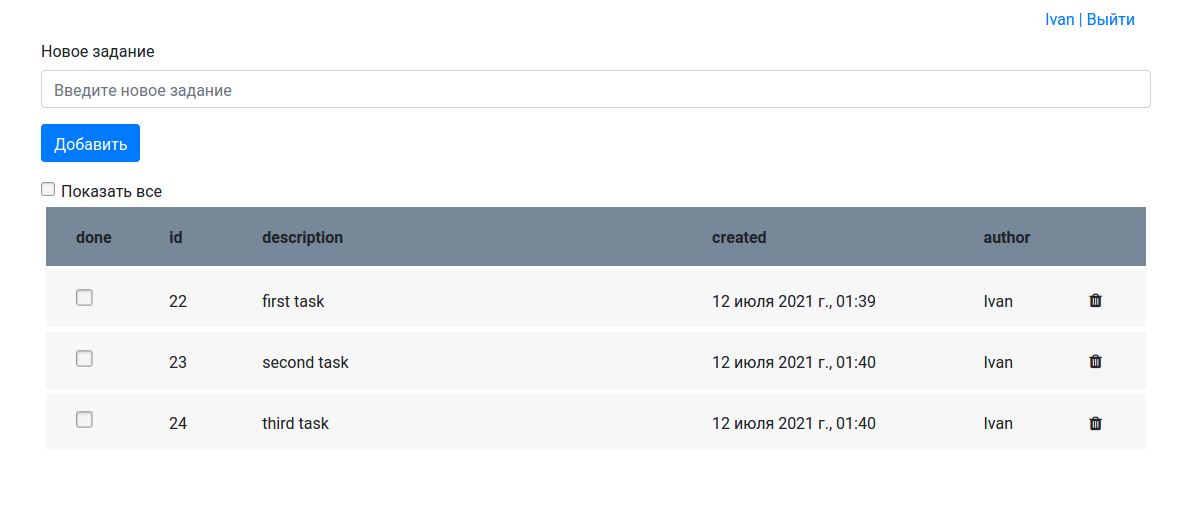
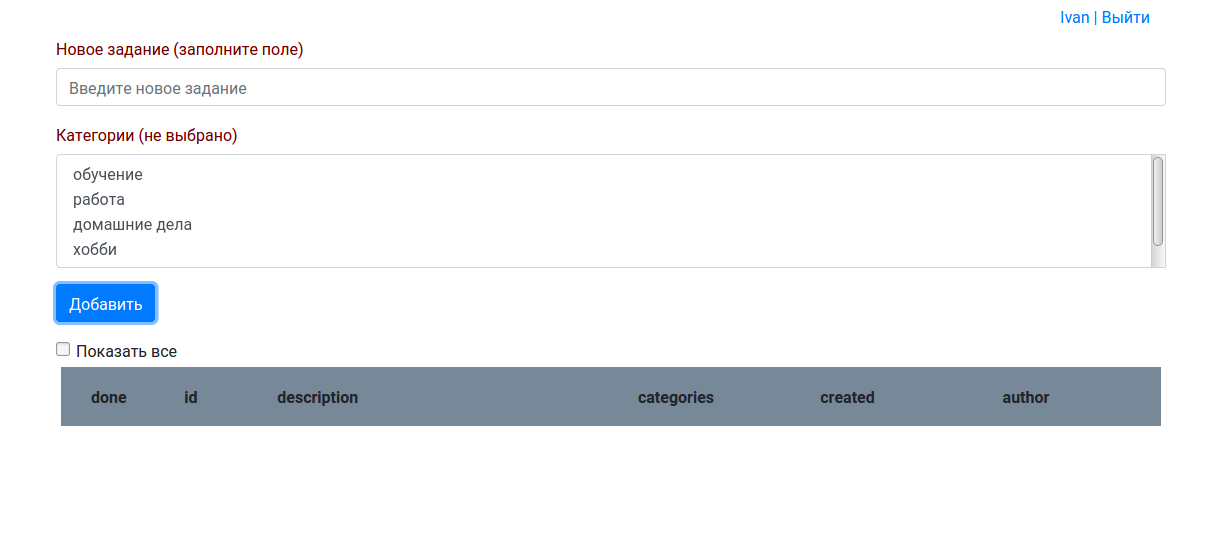
4. Категории в TODO List [#331991]

diff --git a/src/main/webapp/js/main.js b/src/main/webapp/js/main.js
@@ -1,19 +1,40 @@
 let add = function(){
-    let taskName = $('#description').val();
-    addTask(0, taskName, "", false);
+    if (validate()) {
+        let taskName = $('#description').val();
+        let categories = $('#categories').val();
+        addTask(0, taskName, "", false, categories);
+    }
 };
 
-let makeJson = function (id, taskName, created, isDone) {
+let validate = function () {
+    let result = true;
+    if ($("#description").val() === "") {
+        $("#descriptionLabel").text("Новое задание (заполните поле)").css("color", "#740000");
+        result = false;
+    } else {
+        $("#descriptionLabel").text("Новое задание").css("color", "#000000");
+    }
+    if ($("#categories").val().length === 0) {
+        $("#categoriesLabel").text("Категории (не выбрано)").css("color", "#740000");
+        result = false;
+    } else {
+        $("#categoriesLabel").text("Категории").css("color", "#000000");
+    }
+    return result;
+}
+
+let makeJson = function (id, taskName, created, isDone, categories) {
     let item = {};
     item["id"] = Number(id);
     item["description"] = taskName;
     item["created"] = created;
     item["done"] = isDone;
+    item["categories"] = categories;
     return JSON.stringify(item);
 };
 
-let addTask = function (id, taskName, created, isDone) {
-    let json = makeJson(id, taskName, created, isDone);
+let addTask = function (id, taskName, created, isDone, categories) {
+    let json = makeJson(id, taskName, created, isDone, categories);
     $.ajax({
         type: 'POST',
         url: './add.do',
@@ -21,23 +42,34 @@ let addTask = function (id, taskName, created, isDone) {
         dataType: 'json'
     }).done(function (data) {
         let item = data.item;
-        addToFront(item.id, item.description, item.created, JSON.parse(item.done), item.user.name);
+        addToFront(item.id, item.description, item.created, JSON.parse(item.done), item.user.name, item.categories);
     }).fail(function (err) {
 
     });
 }
 
-let addToFront = function (id, taskName, created, done, username) {
+let addToFront = function (id, taskName, created, done, username, categories) {
     let doneSpan = $("<span></span>").addClass("col-1").append("<input type='checkbox'>");
     let idSpan = $("<span></span>").addClass("col-1").text(id);
-    let descSpan = $("<span></span>").addClass("col-5").text(taskName);
-    let createdSpan = $("<span></span>").addClass("col-3").text(formatDate(created));
+    let descSpan = $("<span></span>").addClass("col-4").text(taskName);
+    let namesOfCategories = "";
+    for (let i = 0; i < categories.length; i++) {
+        namesOfCategories += categories[i].name;
+        if (i < categories.length - 1) {
+            namesOfCategories += ", ";
+        }
+    }
+    let categorySpan = $("<span></span>").addClass("col-2").text(namesOfCategories);
+    let createdSpan = $("<span></span>").addClass("col-2").text(formatDate(created));
     let authorSpan = $("<span></span>").addClass("col-1").text(username);
     let deleteSpan = $("<span></span>").append("<i class='fa fa-trash col-1'></i>");
     let item = $("<div></div>")
         .addClass("todo-item")
         .prop('id', id)
-        .append(doneSpan, " ", idSpan, " ", descSpan, " ", createdSpan, " ", authorSpan, " ", deleteSpan);
+        .append(
+            doneSpan, " ", idSpan, " ", descSpan, " ", categorySpan, " ",
+            createdSpan, " ", authorSpan, " ", deleteSpan
+        );
     $("#list").append(item);
     if (done) {
         $("#" + id + " input:checkbox").prop('checked', true);
@@ -71,7 +103,7 @@ $(document).ready(function() {
 let updateItem = function(checkbox) {
     let done = $(checkbox).is(":checked");
     let id = $(checkbox).parent().parent().prop("id");
-    let json = makeJson(id, "", "", done);
+    let json = makeJson(id, "", "", done, "");
     $.ajax({
         type: 'POST',
         url: './update.do',
@@ -108,13 +140,19 @@ let getAllTasks = function () {
     }).done(function (data) {
         let items = data.items;
         let user = data.user;
+        let categories = data.categories;
         for (let i = 0; i < items.length; i++) {
             let id = items[i]["id"];
             let description = items[i]["description"];
             let created = items[i]["created"]
             let done = JSON.parse(items[i]["done"]);
             let username = items[i]["user"]["name"];
-            addToFront(id, description, created, done, username);
+            let categories = items[i]["categories"];
+            addToFront(id, description, created, done, username, categories);
+        }
+        for (let i = 0; i < categories.length; i++) {
+            let option = $('<option></option>').text(categories[i].name).prop("value", categories[i].id);
+            $("#categories").append(option);
         }
         $("#userinfo a").text(user + " | Выйти");
     }).fail(function (err) {
@@ -134,7 +172,7 @@ $(document).ready(function () {
 });
 
 let deleteItem = function (id) {
-    let json = makeJson(id, "", "", true);
+    let json = makeJson(id, "", "", true, "");
     $.ajax({
         type: 'POST',
         url: './delete.do',

diff --git a/src/main/webapp/todo.html b/src/main/webapp/todo.html
@@ -27,8 +27,13 @@
             </div>
             <form>
                 <div class="form-group">
-                    <label for="description">Новое задание</label>
+                    <label for="description" id="descriptionLabel">Новое задание</label>
                     <input type="text" class="form-control" id="description" placeholder="Введите новое задание">
+                </div>
+                <div class="form-group">
+                    <label for="categories" id="categoriesLabel">Категории</label>
+                    <select class="form-control" name="categories" id="categories" multiple>
+                    </select>
                 </div>
                 <button type="button" class="btn btn-primary" id="addButton" onclick="add();">Добавить</button>
             </form>
@@ -40,8 +45,9 @@
                 <div class="todo-header">
                     <span class="col-1">done</span>
                     <span class="col-1">id</span>
-                    <span class="col-5">description</span>
-                    <span class="col-3">created</span>
+                    <span class="col-4">description</span>
+                    <span class="col-2">categories</span>
+                    <span class="col-2">created</span>
                     <span class="col-1">author</span>
                     <span class="col-1"></span>
                 </div>

diff --git a/src/main/java/ru/job4j/todo/store/StoreHbm.java b/src/main/java/ru/job4j/todo/store/StoreHbm.java
@@ -7,6 +7,7 @@ import org.hibernate.boot.MetadataSources;
 import org.hibernate.boot.registry.StandardServiceRegistry;
 import org.hibernate.boot.registry.StandardServiceRegistryBuilder;
 import org.hibernate.query.Query;
+import ru.job4j.todo.model.Category;
 import ru.job4j.todo.model.Item;
 import ru.job4j.todo.model.User;
 
@@ -32,9 +33,13 @@ public class StoreHbm implements Store {
     }
 
     @Override
-    public Item add(Item item) {
+    public Item add(Item item, List<Long> categoriesIds) {
         return this.txFunction(
                 session -> {
+                    for (long id : categoriesIds) {
+                        Category category = session.find(Category.class, id);
+                        item.addCategory(category);
+                    }
                     session.save(item);
                     return item;
                 }
@@ -66,7 +71,9 @@ public class StoreHbm implements Store {
     public List<Item> getAllItems(long id) {
         return this.txFunction(
                 session -> {
-                    Query itemsQuery =  session.createQuery("from Item i where i.user.id = :userId");
+                    Query itemsQuery =  session.createQuery(
+                            "select distinct i from Item i join fetch i.categories where i.user.id = :userId"
+                    );
                     itemsQuery.setParameter("userId", id);
                     return itemsQuery.list();
                 }
@@ -83,12 +90,19 @@ public class StoreHbm implements Store {
     @Override
     public User getUserByName(String userName) {
         return this.txFunction(
-            session -> {
-                Query userQuery = session.createQuery("from User where name = :username");
-                userQuery.setParameter("username" , userName);
-                User user = (User) userQuery.uniqueResult();
-                return user;
-            }
+                session -> {
+                    Query userQuery = session.createQuery("from User where name = :username");
+                    userQuery.setParameter("username" , userName);
+                    User user = (User) userQuery.uniqueResult();
+                    return user;
+                }
+        );
+    }
+
+    @Override
+    public List<Category> getAllCategories() {
+        return this.txFunction(
+                session -> session.createQuery("from Category", Category.class).list()
         );
     }
 

diff --git a/src/main/java/ru/job4j/todo/model/Item.java b/src/main/java/ru/job4j/todo/model/Item.java
@@ -2,6 +2,8 @@ package ru.job4j.todo.model;
 
 import javax.persistence.*;
 import java.time.LocalDateTime;
+import java.util.ArrayList;
+import java.util.List;
 
 @Entity
 @Table(name = "items")
@@ -12,6 +14,8 @@ public class Item {
     private String description;
     private LocalDateTime created;
     private boolean done;
+    @ManyToMany(cascade = {CascadeType.PERSIST, CascadeType.MERGE})
+    private List<Category> categories = new ArrayList<>();
 
     @ManyToOne
     @JoinColumn(name = "user_id")
@@ -25,6 +29,10 @@ public class Item {
         this.description = description;
         this.done = done;
         this.created = LocalDateTime.now();
+    }
+
+    public void addCategory(Category category) {
+        this.categories.add(category);
     }
 
     public long getId() {
@@ -67,6 +75,14 @@ public class Item {
         this.done = done;
     }
 
+    public List<Category> getCategories() {
+        return categories;
+    }
+
+    public void setCategories(List<Category> categories) {
+        this.categories = categories;
+    }
+
     @Override
     public String toString() {
         return "Item{" +
@@ -74,6 +90,8 @@ public class Item {
                 ", description='" + description + '\'' +
                 ", created=" + created +
                 ", done=" + done +
+                ", categories=" + categories +
+                ", user=" + user +
                 '}';
     }
 }

diff --git a/src/main/java/ru/job4j/todo/servlets/AddTaskServlet.java b/src/main/java/ru/job4j/todo/servlets/AddTaskServlet.java
@@ -1,5 +1,6 @@
 package ru.job4j.todo.servlets;
 
+import org.json.JSONArray;
 import org.json.JSONObject;
 import org.slf4j.Logger;
 import org.slf4j.LoggerFactory;
@@ -11,6 +12,8 @@ import javax.servlet.http.HttpServlet;
 import javax.servlet.http.HttpServletRequest;
 import javax.servlet.http.HttpServletResponse;
 import java.io.PrintWriter;
+import java.util.ArrayList;
+import java.util.List;
 
 public class AddTaskServlet extends HttpServlet {
     private final Logger logger = LoggerFactory.getLogger(AddTaskServlet.class);
@@ -24,10 +27,15 @@ public class AddTaskServlet extends HttpServlet {
                 requestObject.getString("description"),
                 requestObject.getBoolean("done")
         );
+        JSONArray categories = requestObject.getJSONArray("categories");
+        List<Long> categoriesIds = new ArrayList<>();
+        for (int i = 0; i < categories.length(); i++) {
+            categoriesIds.add(categories.getLong(i));
+        }
         User user = (User) req.getSession().getAttribute("user");
         item.setUser(user);
         try {
-            Item itemFromDB = StoreHbm.instOf().add(item);
+            Item itemFromDB = StoreHbm.instOf().add(item, categoriesIds);
 
             resp.setContentType("application/json");
             resp.setCharacterEncoding("UTF-8");

diff --git a/src/main/java/ru/job4j/todo/servlets/GetAllItemsServlet.java b/src/main/java/ru/job4j/todo/servlets/GetAllItemsServlet.java
@@ -4,6 +4,7 @@ import org.json.JSONArray;
 import org.json.JSONObject;
 import org.slf4j.Logger;
 import org.slf4j.LoggerFactory;
+import ru.job4j.todo.model.Category;
 import ru.job4j.todo.model.Item;
 import ru.job4j.todo.model.User;
 import ru.job4j.todo.store.StoreHbm;
@@ -24,12 +25,14 @@ public class GetAllItemsServlet extends HttpServlet {
             User user = (User) req.getSession().getAttribute("user");
 
             List<Item> allItems = StoreHbm.instOf().getAllItems(user.getId());
+            List<Category> allCategories = StoreHbm.instOf().getAllCategories();
 
             resp.setContentType("application/json");
             resp.setCharacterEncoding("UTF-8");
             JSONObject jsonResponse = new JSONObject();
             jsonResponse.put("user", user.getName());
             jsonResponse.put("items", new JSONArray(allItems));
+            jsonResponse.put("categories", new JSONArray(allCategories));
             try (PrintWriter writer = new PrintWriter(resp.getOutputStream())) {
                 String out = jsonResponse.toString();
                 writer.println(out);

diff --git a/src/main/java/ru/job4j/todo/model/Category.java b/src/main/java/ru/job4j/todo/model/Category.java
@@ -1,0 +1,37 @@
+package ru.job4j.todo.model;
+
+import javax.persistence.*;
+
+@Entity
+@Table(name = "categories")
+public class Category {
+    @Id
+    @GeneratedValue(strategy = GenerationType.IDENTITY)
+    private long id;
+
+    private String name;
+
+    public Category() {
+
+    }
+
+    public Category(String name) {
+        this.name = name;
+    }
+
+    public long getId() {
+        return id;
+    }
+
+    public void setId(long id) {
+        this.id = id;
+    }
+
+    public String getName() {
+        return name;
+    }
+
+    public void setName(String name) {
+        this.name = name;
+    }
+}

diff --git a/src/main/java/ru/job4j/todo/store/Store.java b/src/main/java/ru/job4j/todo/store/Store.java
@@ -1,15 +1,17 @@
 package ru.job4j.todo.store;
 
+import ru.job4j.todo.model.Category;
 import ru.job4j.todo.model.Item;
 import ru.job4j.todo.model.User;
 
 import java.util.List;
 
 public interface Store {
-    Item add(Item item);
+    Item add(Item item, List<Long> categoriesIds);
     void update(long id, Item item);
     void delete(long id);
     List<Item> getAllItems(long id);
     void save(User user);
     User getUserByName(String userName);
+    List<Category> getAllCategories();
 }

diff --git a/README.md b/README.md
@@ -25,3 +25,4 @@
 ![ScreenShot](images/5.png)
 ![ScreenShot](images/6.png)
 ![ScreenShot](images/7.png)
+![ScreenShot](images/8.png)
